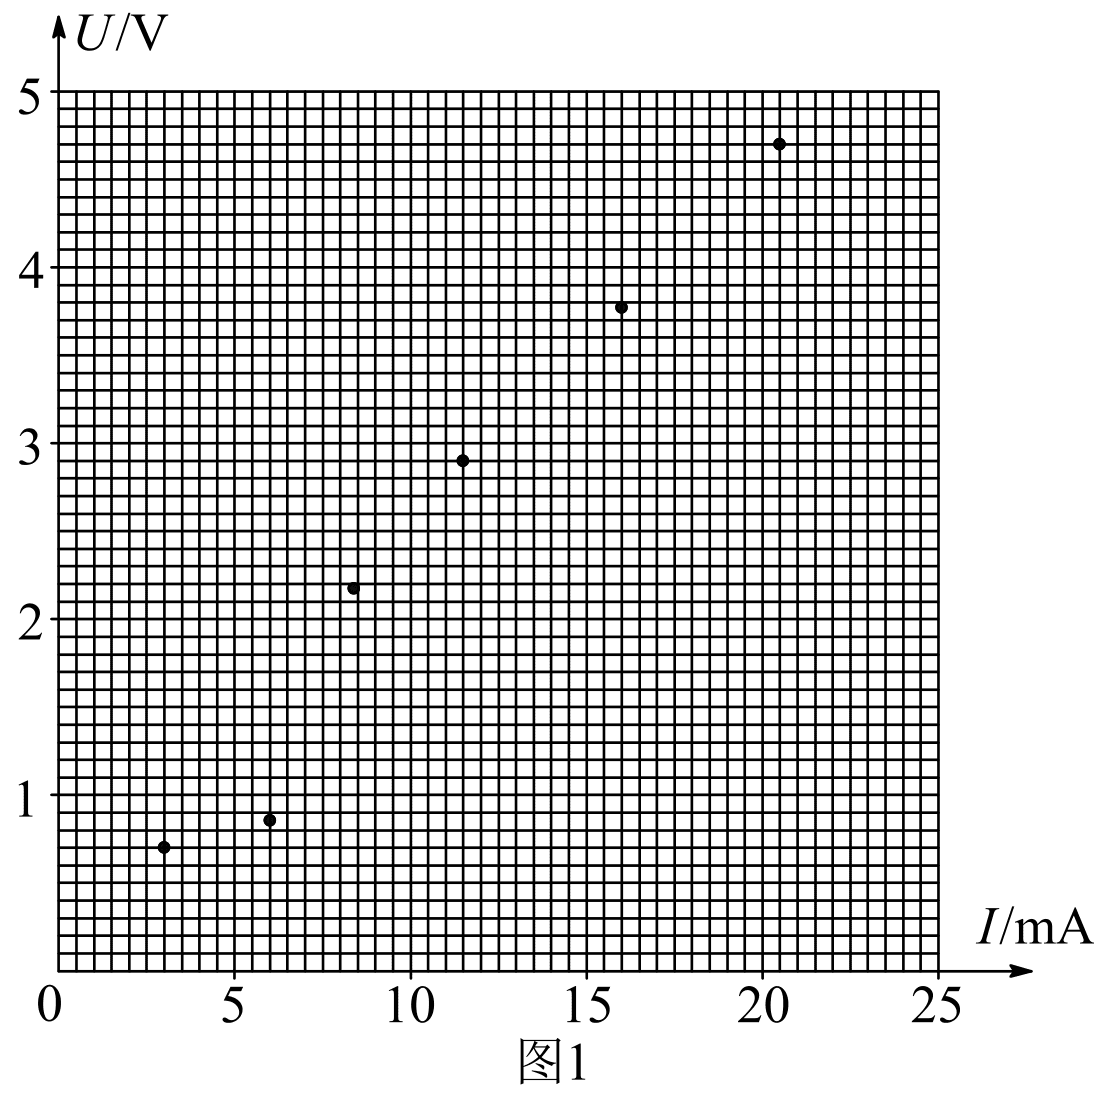
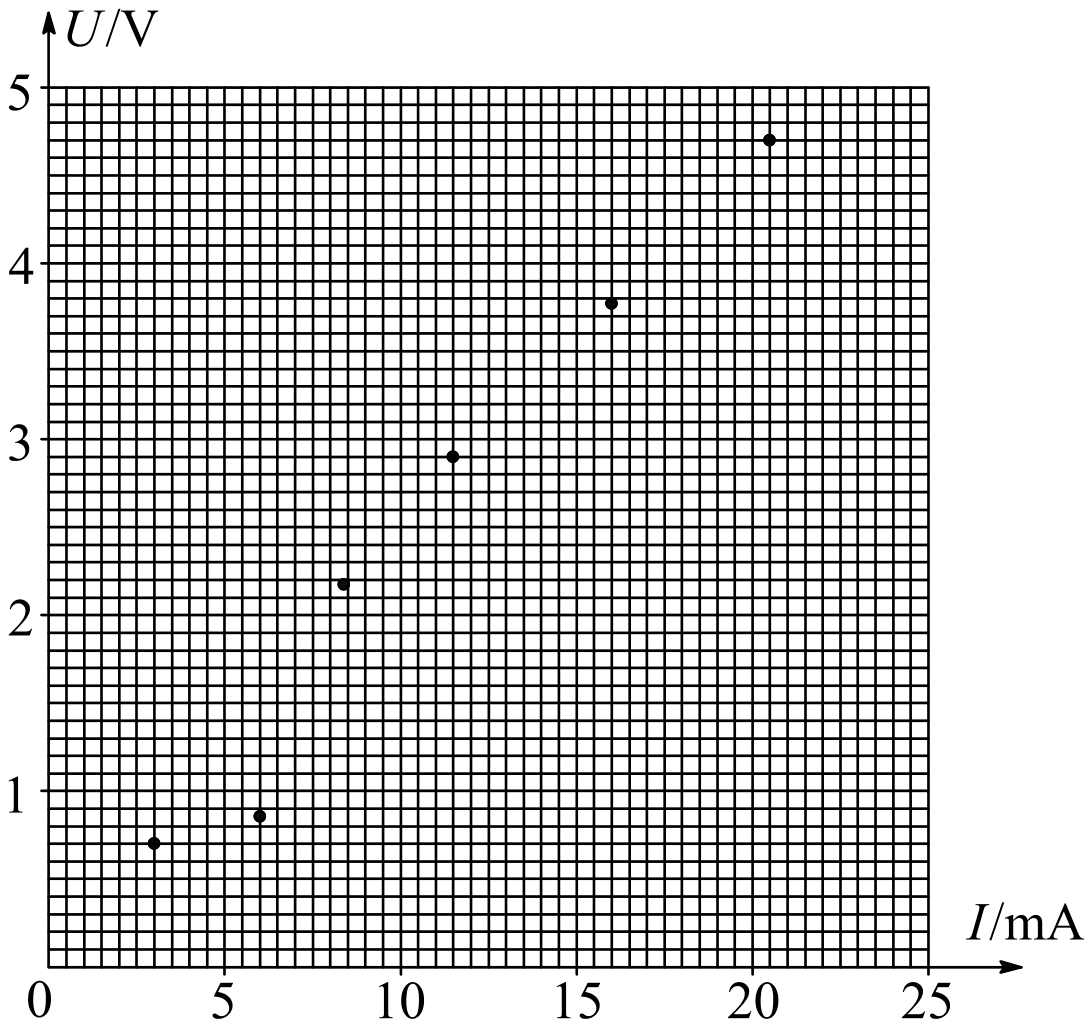
全面复核 2003 年各卷：订正文字/单位/图片、拆分复合图、规范公式编号，更新异常台账

diff --git a/试卷/2003/上海/上海.tex b/试卷/2003/上海/上海.tex
@@ -209,7 +209,7 @@
 
 现若将图\ref{2003上海08a}装置中抽去一张纸片，则当光垂直入射到新的劈形空气膜后，从上往下观察到的干涉条纹\xzanswer{A}
 
-\twopicture[numstyle=arabic, w=5.5cm, labelA=2003上海08a, labelB=2003上海08b]
+\twopicture[numstyle=arabic, w=5.5cm, capA={俯视图}, labelA=2003上海08a, labelB=2003上海08b]
 {figs/08a.png}
 {figs/08b.png}
 
@@ -440,7 +440,7 @@ $\frac{GM}{r^{2}}$。
 \centering
 \begin{tblr}{|c|c|c|c|}
 \hline
-序号 & $V$（$\UmL$） & $p$（$10^{5}\UPa$） & $pV$（$10^{5}\UPa\cdot\UmL$） \\
+序号 & $V$（$\UmL$） & $p$（$\times10^{5}\UPa$） & $pV$（$\times10^{5}\UPa\cdot\UmL$） \\
 \hline
 1 & 20.0 & 1.0010 & 20.020 \\
 \hline
@@ -457,7 +457,7 @@ $\frac{GM}{r^{2}}$。
 
 \begin{enumerate}
 	\item
-	仔细观察不难发现，$pV$（$10^{5}\UPa\cdot\UmL$）一栏中的数值越来越小，造成这一现象的可能原因是\xzanswer{D}
+	仔细观察不难发现，$pV$（$\times10^{5}\UPa\cdot\UmL$）一栏中的数值越来越小，造成这一现象的可能原因是\xzanswer{D}
 
 	\fourchoices[answer=D]
 	{实验时注射器活塞与筒壁间的摩擦力不断增大}
@@ -502,7 +502,7 @@ $\frac{GM}{r^{2}}$。
 
 \begin{enumerate}
 	\item
-	为了通过测量得到图\ref{2003上海18a}所示 $I-U$ 关系的完整曲线，在图\ref{2003上海18b}和图\ref{2003上海18c}两个电路中应选择的是图\tkanswer[0.8cm]{2}，简要说明理由：\tkanswer{图\ref{2003上海18b}电路电压可从 $0\UV$ 调到所需电压，调节范围较大（或图\ref{2003上海18c}电路不能测得 $0\UV$ 附近的数据）}。（电源电动势为 $9\UV$，内阻不计，滑线变阻器的阻值为 $100\UO$）
+	为了通过测量得到图\ref{2003上海18a}所示 $I-U$ 关系的完整曲线，在图\ref{2003上海18b}和图\ref{2003上海18c}两个电路中应选择的是图\tkanswer[0.8cm]{2}，简要说明理由：\tkanswer{图\ref{2003上海18b}电路电压可从 $0\UV$ 调到所需电压，调节范围较大（或图\ref{2003上海18c}电路不能测得 $0\UV$ 附近的数据）}。（电源电动势为 $9\UV$，内阻不计，滑线变阻器的阻值为 $0\sim100\UO$）
 	\item
 	在图\ref{2003上海18d}电路中，电源电压恒为 $9\UV$，电流表读数为 $70\UmA$，定值电阻 $R_{1}=250\UO$，由热敏电阻的 $I-U$ 关系曲线可知，热敏电阻两端的电压为\tkanswer[1.2cm]{$5.2$}$\UV$，电阻 $R_{2}$ 的阻值为\tkanswer[1.6cm]{$111.8$}$\UO$。
 	\item
@@ -631,7 +631,7 @@ $\frac{GM}{r^{2}}$。
 \memoanswer{
 （1）飞机水平方向速度不变，有 $l=v_{0}t$。
 
-竖直方向加速度恒定，有 $h=\frac{1}{2}at^{2}$，消去 $t$ 得 $a=\frac{2hv_{0}^{2}}{l^{2}}$。
+竖直方向加速度恒定，有 $h=\frac{1}{2}at^{2}$，消去 $t$ 得 $a=\frac{2hv_{0}^{2}}{gl^{2}}$。
 
 由牛顿第二定律得 $F=mg+ma=mg\left(1+\frac{2hv_{0}^{2}}{gl^{2}}\right)$。
 

diff --git a/试卷/2003/全国春季理综/全国春季理综.tex b/试卷/2003/全国春季理综/全国春季理综.tex
@@ -240,7 +240,7 @@
 %% degree: 550
 %% duplicateId: 0
 %% body:
-有一炮竖直向上发射炮弹，炮弹的质量为 $M=6.0\Ukg$（内含炸药的质量可以忽略不计），射出的初速度 $v_{0}=60\Ums$。当炮弹到达最高点时爆炸为沿水平方向运动的两片，其中一片质量为 $m=4.0\Ukg$。现要求这一片不能落到以发射点为圆心、以 $R=600\Um$ 为半径的圆周范围内，则刚爆炸完时两弹片的总动能至少多大？（$g=10\Umsq$，忽略空气阻力）
+有一炮竖直向上发射炮弹，炮弹的质量为 $M=6.0\Ukg$（内含炸药的质量可以忽略不计），射出的初 $v_{0}=60\Ums$。当炮弹到达最高点时爆炸为沿水平方向运动的两片，其中一片质量为 $m=4.0\Ukg$。现要求这一片不能落到以发射点为圆心、以 $R=600\Um$ 为半径的圆周范围内，则刚爆炸完时两弹片的总动能至少多大？（$g=10\Umsq$，忽略空气阻力）
 
 %% answer: 
 \jdanswer{

diff --git a/试卷/2003/上海理综/上海理综.tex b/试卷/2003/上海理综/上海理综.tex
@@ -216,8 +216,6 @@
 %% body:
 可见光的频率范围从\tkanswer[2.6cm]{$3.9\times10^{14}$（或 $4\times10^{14}$）}赫兹到\tkanswer[2.6cm]{$7.9\times10^{14}$（或 $8\times10^{14}$）}赫兹。光合作用是地球上生物生存、繁荣和发展的根本源泉。高等植物叶绿体中的色素，主要吸收\tkanswer[1.2cm]{红橙}光和\tkanswer[1.2cm]{蓝紫}光。钠元素在一定条件下发出\tkanswer[0.8cm]{黄}色光，利用此性质，可制成公路上照明使用的高压灯。
 
-\onepicture[w=3.2cm, align=right]{figs/45.png}
-
 %% answer: 
 %% memo:
 \memoanswer{

diff --git a/试卷/2003/全国/全国.tex b/试卷/2003/全国/全国.tex
@@ -20,7 +20,7 @@
 下列说法中正确的是\xzanswer{A}
 \fourchoices[answer=A]
 {质子与中子的质量不等，但质量数相等}
-{两个质子之间，不管距离如何，核力总是大于库仑力}
+{两个质子间，不管距离如何，核力总是大于库仑力}
 {同一种元素的原子核有相同的质量数，但中子数可以不同}
 {除万有引力外，两个中子之间不存在其它相互作用力}
 %% answer: A

diff --git a/异常记录/2003.md b/异常记录/2003.md
@@ -6,7 +6,7 @@
 2003 年共 **8 套**、**86 题**：独立物理卷 3 套（上海 23、全国 20、广东广西 3），
 理综/综合节选 5 套（全国理综新课程 11、全国春季理综 10、上海理综 9、广东综合 7、
 全国理综旧课程 3）。其中全国理综旧课程、广东广西无 PDF/Docx，仅依平台 JSON 制作。
-全部完成双版编译与 `make check`。
+全部完成双版编译与 `make check`；并已按原 PDF 逐题复核。
 
 ## 一、通用处置
 
@@ -17,46 +17,60 @@
   上海理综 50、广东综合 37），保留 JSON 元数据、按实际题型排版；`%% answer` 依
   `check_meta` 规则填写（含从其答案文本中误抽的字母，如广东综合 37 的 `H`）。
 - **缺详解**：原卷/材料无工作解答者，写 `\memoanswer{本题原卷及材料中未提供详解，待补充。}`。
-- **图片**：JSON 图失效或缺失者，从原 PDF 无损提取 / 渲染裁剪回填；可无损拆分的复合图已拆分，
-  图内编号抹除后由宏自动生成。严禁 TikZ 重绘；本年份未引入任何 TikZ 重绘。
+- **单位**：全部改用 `PhyUnit` 宏并置于数学模式；清理裸 `$\Omega$`、裸复合单位与手写
+  `\mathrm` 单位（本次修正了全国春季理综第 27 题的 `$\Omega$`）。
+- **图片**：JSON 图失效或缺失者，从原 PDF 无损提取 / 渲染裁剪回填；可无损拆分的复合图已拆分
+  （全国 7/19/20、上海 6/8、全国理综新课程 23、全国春季理综 27/30），图内编号抹除后由宏
+  自动生成；无法无损拆分者整体呈现并登记。严禁 TikZ 重绘。
 
 ## 二、逐题异常
 
 | 地区 | 题号 | 类别 | 问题 | 处理建议 | 状态 |
 | :--- | :--- | :--- | :--- | :--- | :--- |
-| 全国理综旧课程 | 全卷 | 来源 | 无 PDF/Docx，仅有平台 JSON（仅收录 17、21、25 三题） | 仅依 JSON 制作；详解由物理推导补全，建议核对原卷 | 待人工核验 |
-| 全国理综旧课程 | 25 | 答案 | JSON 答案记 $\omega=0.032\Urads$，按题给数据推导应为 $3.2\Urads$（相差 100 倍） | 正文按推导取 $3.2\Urads$，建议订正 JSON | 待人工核验 |
-| 广东广西 | 全卷 | 来源 | 无 PDF/Docx，仅有平台 JSON（仅收录 3、11、18 三题） | 仅依 JSON 制作，memo 为自撰 | 待人工核验 |
-| 广东广西 | 18 | 答案 | JSON 答案频率记作 $\frac{\pi}{\omega}$（量纲为时间），疑应为 $\frac{\omega}{\pi}$ | 暂保留 JSON 原值，待核 | 待人工核验 |
-| 上海 | 6 | 复合图 | JSON `06.svg` 为 A/B/C/D 四选项合一的复合图，图内含烙字 A/B/C/D | 已从矢量原图拆为 `figs/06a–06d.png`（去烙字），用 `\fourchoices[ispicture=true]` | 已解决 |
-| 上海 | 8 | 复合图 | JSON `08.svg` 为“图 1（俯视图）+图 2”复合图，含“图 1/图 2”标注 | 已拆为 `figs/08a/08b.png` 并去标注，正文以 `\ref` 引用 | 已解决 |
+| 上海 | 6 | 复合图 | JSON `06.svg` 为 A/B/C/D 四选项合一的复合图，图内含烙字 A/B/C/D | 已拆为 `figs/06a–06d.png`（无烙字），用 `\fourchoices[ispicture=true]`，编号由宏生成 | 已解决 |
+| 上海 | 8 | 复合图 | JSON `08.svg` 为“图 1（俯视图）+图 2”复合图，含“图 1/图 2”标注 | 已拆为 `figs/08a/08b.png` 并去标注，用 `\twopicture[numstyle=arabic]` + `\ref` | 已解决 |
+| 上海 | 8 | 文字 | 原卷解析“劈垫厚度”系错别字 | 已按正确术语写作“劈尖厚度” | 已解决 |
 | 上海 | 12 | 元数据 | JSON 标 `typeId=1/单选题`，实为填空题（merged 二、填空题第 12 题），answer 为公式串 | 保留 JSON 元数据，正文用 `\tkanswer`，`%% answer` 留空 | 待人工核验 |
-| 上海 | 13 | 答案 | 参考答案海拔 6613 m，材料【解析】按 $8.7\times10^{4}\UPa$ 推算为 6586 m（均在 6550～6650 允许范围） | 填空采用参考答案 6613 m，详解保留解析推导 | 待人工核验 |
-| 上海 | 21 | 公式 | 材料/JSON 详解中 $a=\frac{2hv_{0}^{2}}{gl^{2}}$ 多出 $g$，与后文 $F=mg(1+\frac{2hv_{0}^{2}}{gl^{2}})$ 不自洽 | 已按物理关系更正为 $a=\frac{2hv_{0}^{2}}{l^{2}}$ | 待人工核验 |
+| 上海 | 13 | 答案 | 参考答案海拔 6613 m，材料【解析】按 $8.7\times10^{4}\UPa$ 推算为 6586 m（均在 6550～6650 允许范围） | 填空采用参考答案 6613 m，详解保留解析推导 6586 m | 待人工核验 |
+| 上海 | 18 | 文字 | 原卷解析“热散温度计”系错别字（参考答案作“热敏温度计”） | 已按“热敏温度计”录入 | 已解决 |
+| 上海 | 20 | 文字 | 原卷/merged“运动到地在所需的时间”系讹字 | 已写作“到地面” | 已解决 |
+| 上海 | 21 | 公式 | 原卷答案页与 merged 解析均印 $a=\frac{2hv_{0}^{2}}{gl^{2}}$（量纲不对，应为 $\frac{2hv_{0}^{2}}{l^{2}}$），与后文 $F=mg(1+\frac{2hv_{0}^{2}}{gl^{2}})$ 自洽但物理有误 | 按原卷/merged 忠实保留，待人工裁定是否勘误为 $l^{2}$ | 待人工核验 |
 | 上海 | 9、10 | 缺详解 | 材料仅有参考答案（含答案图），无独立【解析】文字 | 详解栏采用参考答案并收录答案图 `figs/09_an`、`10_an` | 待补充 |
 | 上海 | 11、16、17 | 缺详解 | 材料仅有参考答案，无推导/说明文字 | 详解栏采用参考答案；如需完整推导请后续补充 | 待补充 |
 | 全国 | 1 | 详解 | 原卷解析与答案矛盾：答案标 A，解析末尾却判“故 A 错误”（三路 OCR 与原 PDF 一致，系原书错误） | 照录原解析，待人工核对权威答案/解析后修正判定词 | 待人工核验 |
+| 全国 | 14 | 公式 | 原卷第 5、9 页两处解析不一致（一作 $m\omega^{2}R^{2}$，一作 $m\omega^{2}R$） | 已按正确式 $m\omega^{2}R$ 收录，待人工核对 | 待人工核验 |
 | 全国 | 18 | 文字 | 题干“无摩擦低滑动”三路 OCR 一致，疑原卷用字（应为“地滑动”） | 核对原卷，如确为原卷用字则保留 | 待人工核验 |
 | 全国 | 15 | 单位 | 阻力系数单位 $\UNs/\Umq$ 在 `PhyUnit.sty` 无专用宏，暂以组合表达 | 如需可增补专用宏（本次未改共享文件） | 待补充 |
-| 全国理综新课程 | 23 | 复合图 | `figs/23b.png` 为 JSON 复合图（原卷图 2、图 3 两幅卡尺读数），图内自带“图 2/图 3”烙字 | 现整体呈现、`showlabel=false`，正文与图内标签一致；可人工拆为 `23b/23c` 并去烙印 | 待人工核验 |
-| 全国理综新课程 | 23 | 答案图 | 答案电路图 `figs/23_an1/23_an2` 自带“图 1/图 2”烙印 | `showlabel=false`，与答案文字“图 1 或图 2”一致 | 待人工核验 |
-| 全国理综新课程 | 17 | 详解 | merged 详解末句“所以 X 为质子”系 X/Z 笔误 | 已按物理更正为“所以 Z 为质子” | 已解决 |
+| 全国 | 13 | 文字 | 原卷【答案】作“Ω档”、解析作“欧姆挡” | 语义相同，可不处理 | 待人工核验 |
+| 全国理综新课程 | 17 | 文字 | 原卷题干含两处“（ ）”空括号；解析末句“所以 X 为质子”系 X/Z 笔误 | 按项目惯例保留末处答案括号；已将解析更正为“Z 为质子” | 已解决 |
 | 全国理综新课程 | 19 | 缺图 | merged 解析引用的受力分析图 JSON 未提供 | 已由原 PDF `pdfimages` 无损提取回填 `figs/19_an.jpg` 并收入详解 | 已解决 |
-| 全国春季理综 | 27 | 缺图 | JSON 图片为失效本地 clip 路径，figs/ 为空 | 已从原 PDF 内嵌图提取并拆分去烙印：`27a/27b/27c.png`、答案图 `27_an.png` | 已解决 |
-| 全国春季理综 | 30 | 复合图 | 图 1/图 2/图 3 为同一内嵌复合图（含烙字“图 1/2/3”） | 按空白带拆为 `30a/30b/30c.png` 并裁去编号 | 已解决 |
+| 全国理综新课程 | 23 | 复合图 | 题干图 `23b` 原为“图 2（长度卡尺）+图 3（直径卡尺）”复合图，含“图 2/图 3”烙字 | 已无损拆为 `23a/23b/23c` 并去烙印，用 `\threepicture[numstyle=arabic]` + `\ref`，正文与编号一致 | 已解决 |
+| 全国理综新课程 | 23 | 答案图 | 答案电路图 `23_an1/23_an2` 自带“图 1/图 2”烙印 | `showlabel=false`，与答案文字“图 1 或图 2”一致；如需可去烙印 | 待人工核验 |
+| 全国理综新课程 | 24 | 文字 | 原卷与 merged 均作“**向**该中子星的最小密度” | 已忠实原卷保留“向”，建议平台/原卷勘误为“问” | 待人工核验 |
+| 全国理综新课程 | 34 | 公式 | 原卷末式编号为 U+246A（⑪），字体缺字 | 已改用 `\textcircled{11}` 补回，使 ①…⑪ 连续不悬空 | 已解决 |
 | 全国春季理综 | 15 | 缺图 | 内嵌图缺坐标轴标注（该标注为矢量文字，非位图） | 从 300 dpi 渲染页裁剪得含轴标的 `figs/15.png` | 已解决 |
-| 全国春季理综 | 20 | 图文 | 任务预期 Q20“同步卫星示意”，实际原卷 Q20 无图；merged 中位于 Q20 后的图实为 Q19 等腰棱镜图（OCR 错位） | Q20 不配图；Q19 配 `figs/19.png` | 已解决 |
-| 全国春季理综 | 15–20 | 缺详解 | merged 仅给选择题答案，无解析 | 按规范写占位，待人工补解析 | 待补充 |
-| 全国春季理综 | 27 | 缺详解 | merged 仅给参考答案，无推理解析 | 按规范写占位，待人工补解析 | 待补充 |
+| 全国春季理综 | 20 | 图文 | merged 中 Q20 后的图实为 Q19 等腰棱镜图（OCR 错位）；原卷 Q20 无图 | 已按原卷不配图，Q19 配 `figs/19.png` | 已解决 |
+| 全国春季理综 | 27 | 缺图 | JSON 图片为失效本地 clip 路径，figs/ 原为空 | 已从原 PDF 内嵌图提取并拆分去烙印：`27a/27b/27c.png`、答案图 `27_an.png` | 已解决 |
+| 全国春季理综 | 27 | 单位 | 题干与答案中裸写 `$\Omega$` | 已改用 `$\UO$`（`20.0kΩ`） | 已解决 |
+| 全国春季理综 | 28 | 文字 | 原卷作“射出的初 $v_{0}=60\Ums$”（缺“速度”二字） | 已忠实原卷逐字保留 | 待人工核验 |
+| 全国春季理综 | 30 | 复合图 | 图 1/图 2/图 3 为同一内嵌复合图（含烙字“图 1/2/3”） | 按空白带拆为 `30a/30b/30c.png` 并裁去编号 | 已解决 |
 | 全国春季理综 | 30 | 元数据 | JSON 记 Q30 为 14 分，原卷实为 23 分（Ⅰ 14+Ⅱ 9） | 按规范保持与 JSON 一致，待人工决定是否同步 JSON | 待人工核验 |
+| 全国春季理综 | 30 | 详解 | 原卷解析“设线框边的速度为”缺变量、同一符号 $\varepsilon$ 混用、$N_A$ 式单位不规范 | 已补变量 $v$，以 $N\varepsilon$ 区分总/单匝，并把 $N_A$ 式单位规范化为 `\Ugmol/\UA/\Us/\UC/\Umoln` | 已解决 |
 | 全国春季理综 | 18 | 文字 | 原句“……重力加速度为 $10\Umsq$，$1.0\times10^{5}\UPa$……”缺“大气压为”字样（JSON/merged 同） | 按原卷/merged 保留，待人工核验 | 待人工核验 |
+| 全国春季理综 | 15–20、27 | 缺详解 | merged 仅给答案、无解析 | 按规范写占位，待人工补解析 | 待补充 |
 | 上海理综 | 10 | 缺图 | JSON 无图，题干“如右图示” | 从原 PDF 内嵌图提取 `figs/10.png` | 已解决 |
 | 上海理综 | 11 | 平台数据 | merged 在 Q11 后所附图片实为 Q10 的位移传感器电路图（OCR 归属错位）；Q11 题干与原 PDF 均无配图 | Q11 不配图，图片归 Q10 | 已解决 |
-| 上海理综 | 45 | 图片 | 收录的阅读段配图为地球照片（原卷该段唯一配图），非“可见光谱图”，题干未引用 | 已按原图收录 `figs/45.png`，待人工确认保留 | 待人工核验 |
+| 上海理综 | 45 | 图片 | 阅读段配图为地球照片（非“可见光谱图”），且 Q45 题干无“如图”引用 | 已删除该图（全文无光谱图可替换） | 已解决 |
 | 上海理综 | 50 | 元数据 | JSON 标 `typeId=1/单选题`，实为“排序填空+单选”混合 | 保留 JSON 元数据，正文用 `\tkanswer` 排序空 + `\xzanswer{B}` + `\fourchoices` | 已解决 |
 | 上海理综 | 50 | 缺图 | JSON 无图，配伽利略理想斜面实验图（矢量） | 原页 600 dpi 渲染裁剪为 `figs/50.png` | 已解决 |
 | 上海理综 | 10–15、31、45、50 | 缺详解 | merged/JSON 均无答案与解析 | 全部占位，待补详解 | 待补充 |
 | 上海理综 | 31 | 文字 | 原 PDF/merged/JSON 均作“目前上海是快的陆上交通工具”（疑脱“最”） | 忠实保留原卷，待人工核验 | 待人工核验 |
 | 广东综合 | 37 | 平台数据 | JSON 第 37 题实为 merged/原卷第 38 题（CO₂ 吸收红外长波辐射，14 分），题号错位；且 JSON 误标 `typeId=1/单选题`，其 `%% answer` 被脚本从答案文本误抽为 `H` | 按约定保留 `%% number: 37`、题干用 merged 第 38 题，`%% answer: H`；建议平台修正题号与题型 | 待人工核验 |
+| 广东综合 | 37 | 单位 | 波长范围“$1.4\times10^{-3}\sim6\times10^{-3}$”在原卷/merged/JSON 均无单位 | 照录，待补原卷该处单位 | 待人工核验 |
+| 广东综合 | 35 | 文字 | 原卷印为“额定电阻 $P=1.8\UW$”（符号 P 实为功率，应为“额定功率”） | 按数据源保真保留，待人工核验 | 待人工核验 |
 | 广东综合 | 31–37 | 缺详解 | merged.md 与原卷均无解析 | 7 题写占位，待补原卷/可靠详解 | 待补充 |
-| 广东综合 | 35 | 文字 | 原卷印为“额定电阻 $P=1.8\UW$”（JSON、merged、PDF 三源一致，实应为“额定功率”） | 按数据源保真保留，待人工核验 | 待人工核验 |
+| 全国理综旧课程 | 全卷 | 来源 | 无 PDF/Docx，仅有平台 JSON（仅收录 17、21、25 三题） | 仅依 JSON 制作；详解由物理推导补全，建议核对原卷 | 待人工核验 |
+| 全国理综旧课程 | 25 | 答案 | JSON 答案记 $\omega=0.032\Urads$，按题给数据推导应为 $3.2\Urads$（相差 100 倍） | 正文按推导取 $3.2\Urads$，建议订正 JSON | 待人工核验 |
+| 全国理综旧课程 | 25 | 复合图 | `figs/25.png` 为“图 1（发电机结构）+图 2（自行车）”合成图，两图间有引线相连、含“图 1/图 2”标注 | 整体呈现，正文“图 1/图 2”与图内标签一致（无法无损拆分） | 待人工核验 |
+| 广东广西 | 全卷 | 来源 | 无 PDF/Docx，仅有平台 JSON（仅收录 3、11、18 三题） | 仅依 JSON 制作，memo 为自撰 | 待人工核验 |
+| 广东广西 | 18 | 答案 | JSON 答案频率记作 $\frac{\pi}{\omega}$（量纲为时间），疑应为 $\frac{\omega}{\pi}$ | 暂保留 JSON 原值，待核 | 待人工核验 |
